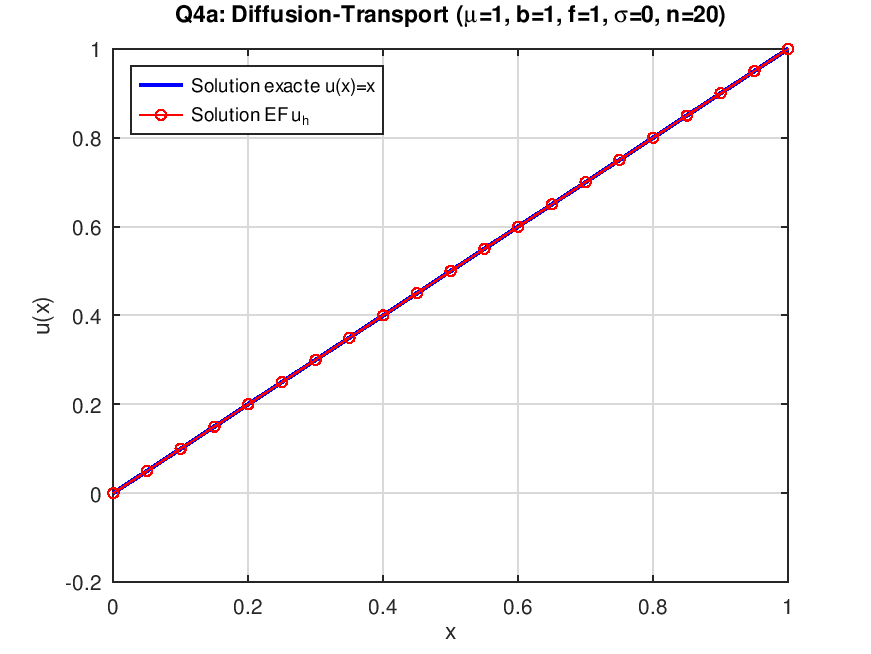
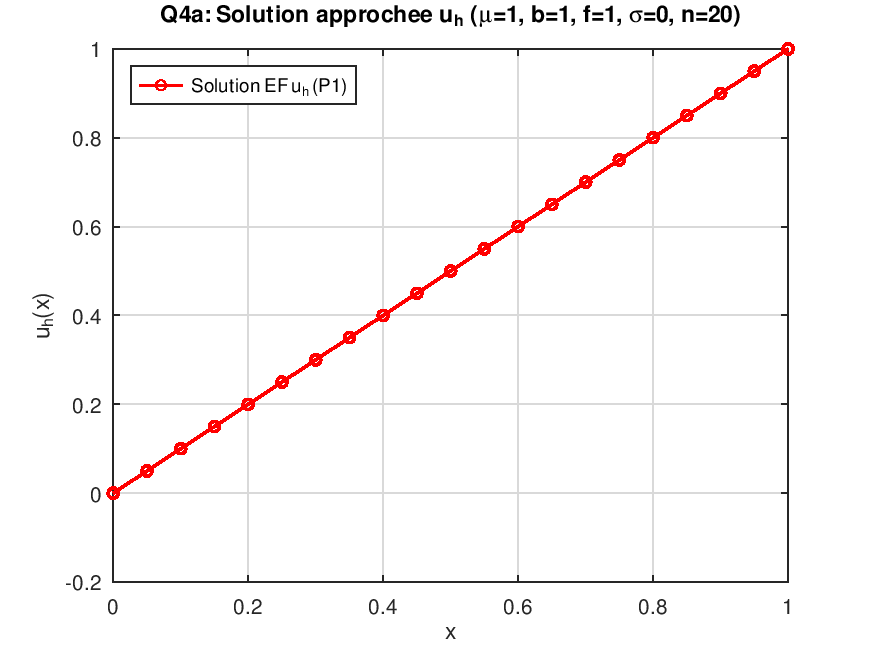
Q4a: tracer uniquement la solution approchee u_h (sans solution exacte)

diff --git a/src/q4a_diffusion_transport.m b/src/q4a_diffusion_transport.m
@@ -1,8 +1,9 @@
 %% Q4a - Diffusion-Transport: mu=b=f=1, sigma=0
 %  -u'' + u' = 1 on (0,1), u(0)=0, u(1)=1
-%  Exact solution: u(x) = x
+%  Objectif: representer graphiquement la solution approchee u_h (EF P1).
 
 clear; close all;
+if exist('OCTAVE_VERSION','builtin'), graphics_toolkit('fltk'); warning('off','all'); end
 
 mu = 1; b_coef = 1; sigma = 0;
 fhandle = @(x) 1;
@@ -10,17 +11,14 @@ n = 20;
 
 [xnodes, uh] = solve_dtr(mu, b_coef, sigma, n, fhandle, 'galerkin');
 
-% exact solution
-x_exact = linspace(0,1,200)';
-u_exact = x_exact;   % u(x)=x
-
 figure();
-plot(x_exact, u_exact, 'b-', 'LineWidth', 1.5); hold on;
-plot(xnodes, uh, 'ro-', 'MarkerSize', 5);
-xlabel('x'); ylabel('u(x)');
-title(sprintf('Q4a: Diffusion-Transport (\\mu=%g, b=%g, f=%g, \\sigma=%g, n=%d)', ...
+plot(xnodes, uh, 'ro-', 'MarkerSize', 5, 'LineWidth', 1.2);
+xlabel('x'); ylabel('u_h(x)');
+title(sprintf('Q4a: Solution approchee u_h (\\mu=%g, b=%g, f=%g, \\sigma=%g, n=%d)', ...
       mu, b_coef, 1, sigma, n));
-legend('Solution exacte u(x)=x', 'Solution EF u_h', 'Location', 'NorthWest');
+legend('Solution EF u_h (P1)', 'Location', 'NorthWest');
 grid on;
 print('-dpng', '-r150', '../figures/q4a_diffusion_transport.png');
-fprintf('Q4a done. Max error = %e\n', max(abs(uh - xnodes)));
+
+fprintf('Q4a done. n=%d, u_h(0)=%.4f, u_h(1)=%.4f, min=%.4f, max=%.4f\n', ...
+        n, uh(1), uh(end), min(uh), max(uh));
